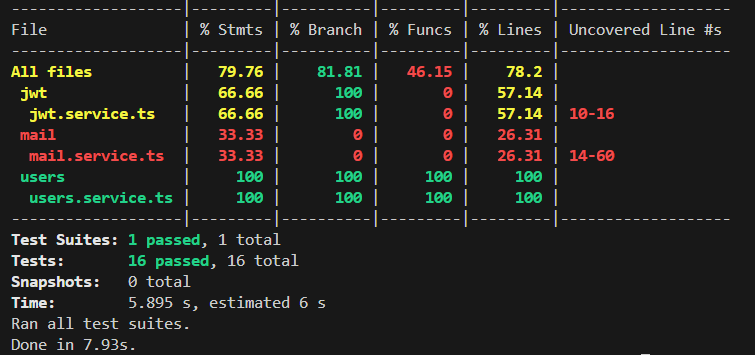
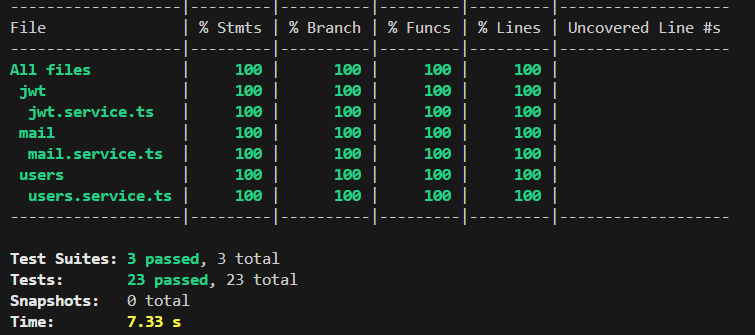
feat: 9강 Unit Testing Jwt and Mail

Changed region(s): [[0.0, 0.0, 0.9748, 1.0]]

diff --git a/src/mail/mail.service.spec.ts b/src/mail/mail.service.spec.ts
@@ -1,0 +1,135 @@
+import { Test } from '@nestjs/testing';
+import { MailService } from './mail.service';
+import { MAIL_CONFIG_OPTIONS } from 'src/common/common.constants';
+import { ConfigService } from '@nestjs/config';
+import { Recipient, EmailParams } from 'mailersend';
+
+const mockMailModuleOptions = {
+  apiToken: 'test-api-token',
+  fromEmail: 'test-from-email',
+  fromName: 'test-from-name',
+  templateVerification: 'test-template-verification',
+};
+const SERVER_URL = 'http://test-server.com';
+
+type MockMailerSend = {
+  email: {
+    send: jest.Mock;
+  };
+};
+
+jest.mock('mailersend', () => {
+  const mMailerSend = {
+    email: {
+      send: jest.fn().mockResolvedValue({}),
+    },
+  };
+  const mEmailParams = {
+    setFrom: jest.fn().mockReturnThis(),
+    setTo: jest.fn().mockReturnThis(),
+    setReplyTo: jest.fn().mockReturnThis(),
+    setSubject: jest.fn().mockReturnThis(),
+    setTemplateId: jest.fn().mockReturnThis(),
+    setVariables: jest.fn().mockReturnThis(),
+  };
+  return {
+    MailerSend: jest.fn(() => mMailerSend),
+    Recipient: jest.fn((email) => ({ email })),
+    EmailParams: jest.fn(() => mEmailParams),
+    Sender: jest.fn((email, name) => ({ email, name })),
+  };
+});
+
+describe('MailService', () => {
+  let service: MailService;
+  let configService: jest.Mocked<ConfigService>;
+  let mailerSendMock: MockMailerSend;
+
+  beforeEach(async () => {
+    configService = {
+      get: jest.fn(() => SERVER_URL),
+    } as unknown as jest.Mocked<ConfigService>;
+
+    const module = await Test.createTestingModule({
+      providers: [
+        MailService,
+        {
+          provide: ConfigService,
+          useValue: configService,
+        },
+        {
+          provide: MAIL_CONFIG_OPTIONS,
+          useValue: mockMailModuleOptions,
+        },
+      ],
+    }).compile();
+    service = module.get<MailService>(MailService);
+    mailerSendMock = (service as any).mailersend as MockMailerSend;
+  });
+
+  it('should be defined', () => {
+    expect(service).toBeDefined();
+  });
+
+  it('sendVerificationEmail', () => {
+    const sendVerificationEmailArgs = {
+      email: 'email',
+      code: 'code',
+    };
+
+    const sendEmailSpy = jest
+      .spyOn(service, 'sendEmail')
+      .mockResolvedValue(true);
+
+    service.sendVerificationEmail(
+      sendVerificationEmailArgs.email,
+      sendVerificationEmailArgs.code,
+    );
+
+    expect(sendEmailSpy).toHaveBeenCalledTimes(1);
+    expect(sendEmailSpy).toHaveBeenCalledWith(
+      'Verify Your Email',
+      mockMailModuleOptions.templateVerification,
+      [
+        {
+          var: 'action_url',
+          value: `${SERVER_URL}/confirm?code=${sendVerificationEmailArgs.code}`,
+        },
+        {
+          var: 'senderName',
+          value: mockMailModuleOptions.fromName,
+        },
+        {
+          var: 'username',
+          value: sendVerificationEmailArgs.email,
+        },
+      ],
+    );
+  });
+
+  describe('sendEmail', () => {
+    const SUBJECT = 'Test Subject';
+    const TEMPLATE_ID = 'test-template-id';
+    const SUBSTITUTIONS = [{ var: 'test', value: 'value' }];
+
+    it('should send email with correct parameters', async () => {
+      const ok = await service.sendEmail(SUBJECT, TEMPLATE_ID, SUBSTITUTIONS);
+
+      expect(Recipient).toHaveBeenCalledTimes(1);
+      expect(EmailParams).toHaveBeenCalled();
+
+      expect(ok).toEqual(true);
+    });
+  });
+
+  it('should handle errors when sending email', async () => {
+    const consoleSpy = jest.spyOn(console, 'log').mockImplementation();
+    const error = new Error('Send email error');
+    mailerSendMock.email.send.mockRejectedValueOnce(error);
+
+    await service.sendEmail('Subject', 'template-id', []);
+
+    expect(consoleSpy).toHaveBeenCalledWith(error);
+    consoleSpy.mockRestore();
+  });
+});

diff --git a/src/jwt/jwt.service.spec.ts b/src/jwt/jwt.service.spec.ts
@@ -1,0 +1,55 @@
+import { Test } from '@nestjs/testing';
+import { JwtService } from './jwt.service';
+import { JWT_CONFIG_OPTIONS } from 'src/common/common.constants';
+import * as jwt from 'jsonwebtoken';
+
+const TEST_KEY = 'testKey';
+const USER_ID = '1';
+const TOKEN = 'TOKEN';
+
+jest.mock('jsonwebtoken', () => {
+  return {
+    sign: jest.fn(() => TOKEN),
+    verify: jest.fn(() => ({
+      id: USER_ID,
+    })),
+  };
+});
+
+describe('JwtService', () => {
+  let service: JwtService;
+  beforeEach(async () => {
+    const module = await Test.createTestingModule({
+      providers: [
+        JwtService,
+        {
+          provide: JWT_CONFIG_OPTIONS,
+          useValue: { privateKey: TEST_KEY },
+        },
+      ],
+    }).compile();
+    service = module.get<JwtService>(JwtService);
+  });
+
+  it('should be definded', () => {
+    expect(service).toBeDefined();
+  });
+
+  describe('sign', () => {
+    it('should return a signed token', () => {
+      const token = service.sign(USER_ID);
+      expect(typeof token).toBe('string');
+      expect(jwt.sign).toHaveBeenCalledTimes(1);
+      expect(jwt.sign).toHaveBeenCalledWith({ id: USER_ID }, TEST_KEY);
+    });
+  });
+
+  describe('verify', () => {
+    it('should return the decoded token', () => {
+      const decodedToken = service.verify(TOKEN);
+      expect(decodedToken).toEqual({ id: USER_ID });
+      expect(jwt.verify).toHaveBeenCalledTimes(1);
+      expect(jwt.verify).toHaveBeenCalledWith(TOKEN, TEST_KEY);
+    });
+  });
+});

diff --git a/src/mail/mail.service.ts b/src/mail/mail.service.ts
@@ -25,7 +25,7 @@ export class MailService {
     subject: string,
     templateId: string,
     substitutions: VariableSubstitution[],
-  ) {
+  ): Promise<boolean> {
     const to = 'kjk7034@naver.com';
 
     const variables = [
@@ -35,9 +35,11 @@ export class MailService {
       },
     ];
 
-    const recipients = Array.isArray(to)
-      ? to.map((email) => new Recipient(email))
-      : [new Recipient(to)];
+    // const recipients = Array.isArray(to)
+    //   ? to.map((email) => new Recipient(email))
+    //   : [new Recipient(to)];
+
+    const recipients = [new Recipient(to)];
 
     const emailParams = new EmailParams()
       .setFrom(this.sender)
@@ -49,8 +51,10 @@ export class MailService {
 
     try {
       await this.mailersend.email.send(emailParams);
+      return true;
     } catch (error) {
       console.log(error);
+      return false;
     }
   }
 

diff --git a/README.md b/README.md
@@ -173,4 +173,6 @@ UserSchema.pre<Query<any, User>>('findOneAndDelete', async function (next) {
 
 강의와 코드가 다르다보니 테스트 코드에서 mocking 하는 부분이 조금 차이가 있었음.
 
-<img src="./docs/testcode.PNG" alt="테스트 커버리지 결과: users.service.ts 100% 달성" width="50%" />
+### 9강 Unit Testing Jwt and Mail
+
+<img src="./docs/testcode.PNG" alt="테스트 커버리지 결과: 3개의 service 100% 달성" width="50%" />
